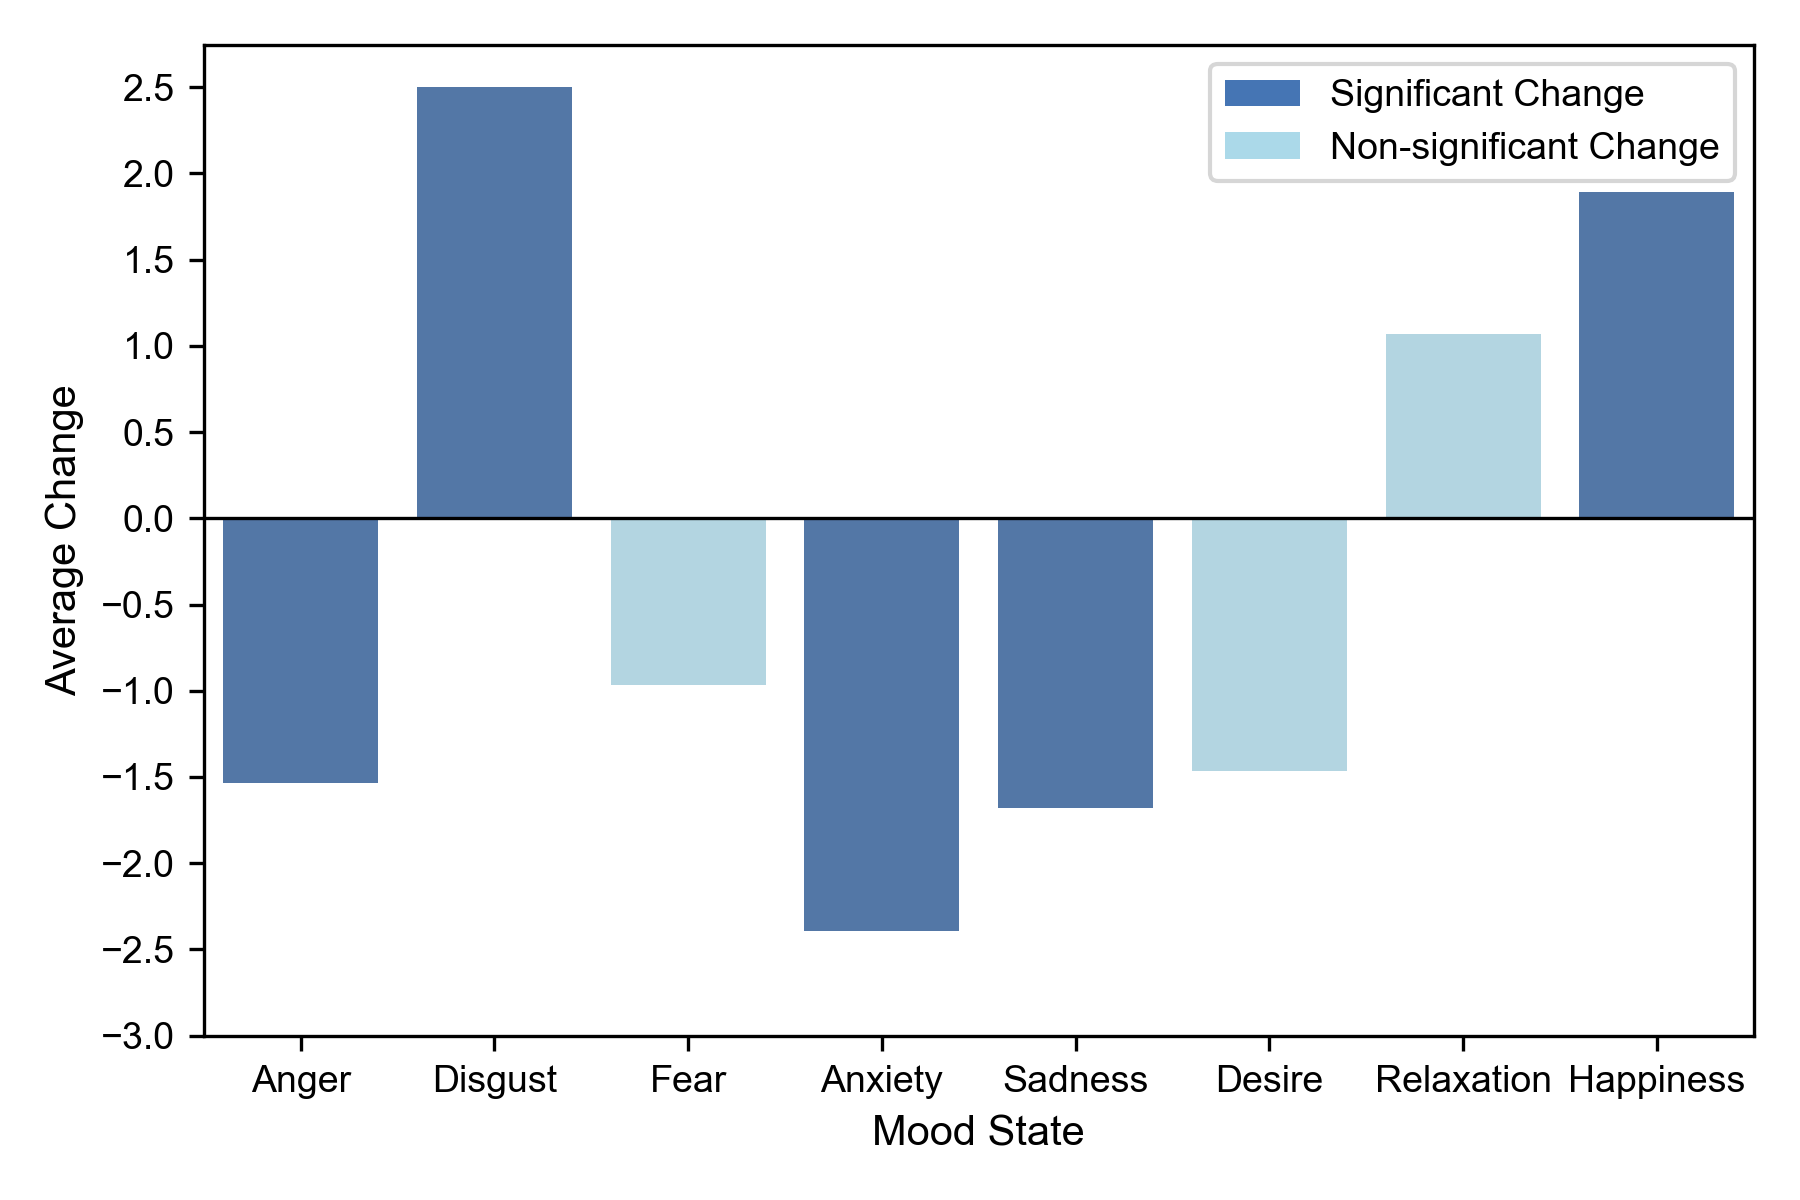
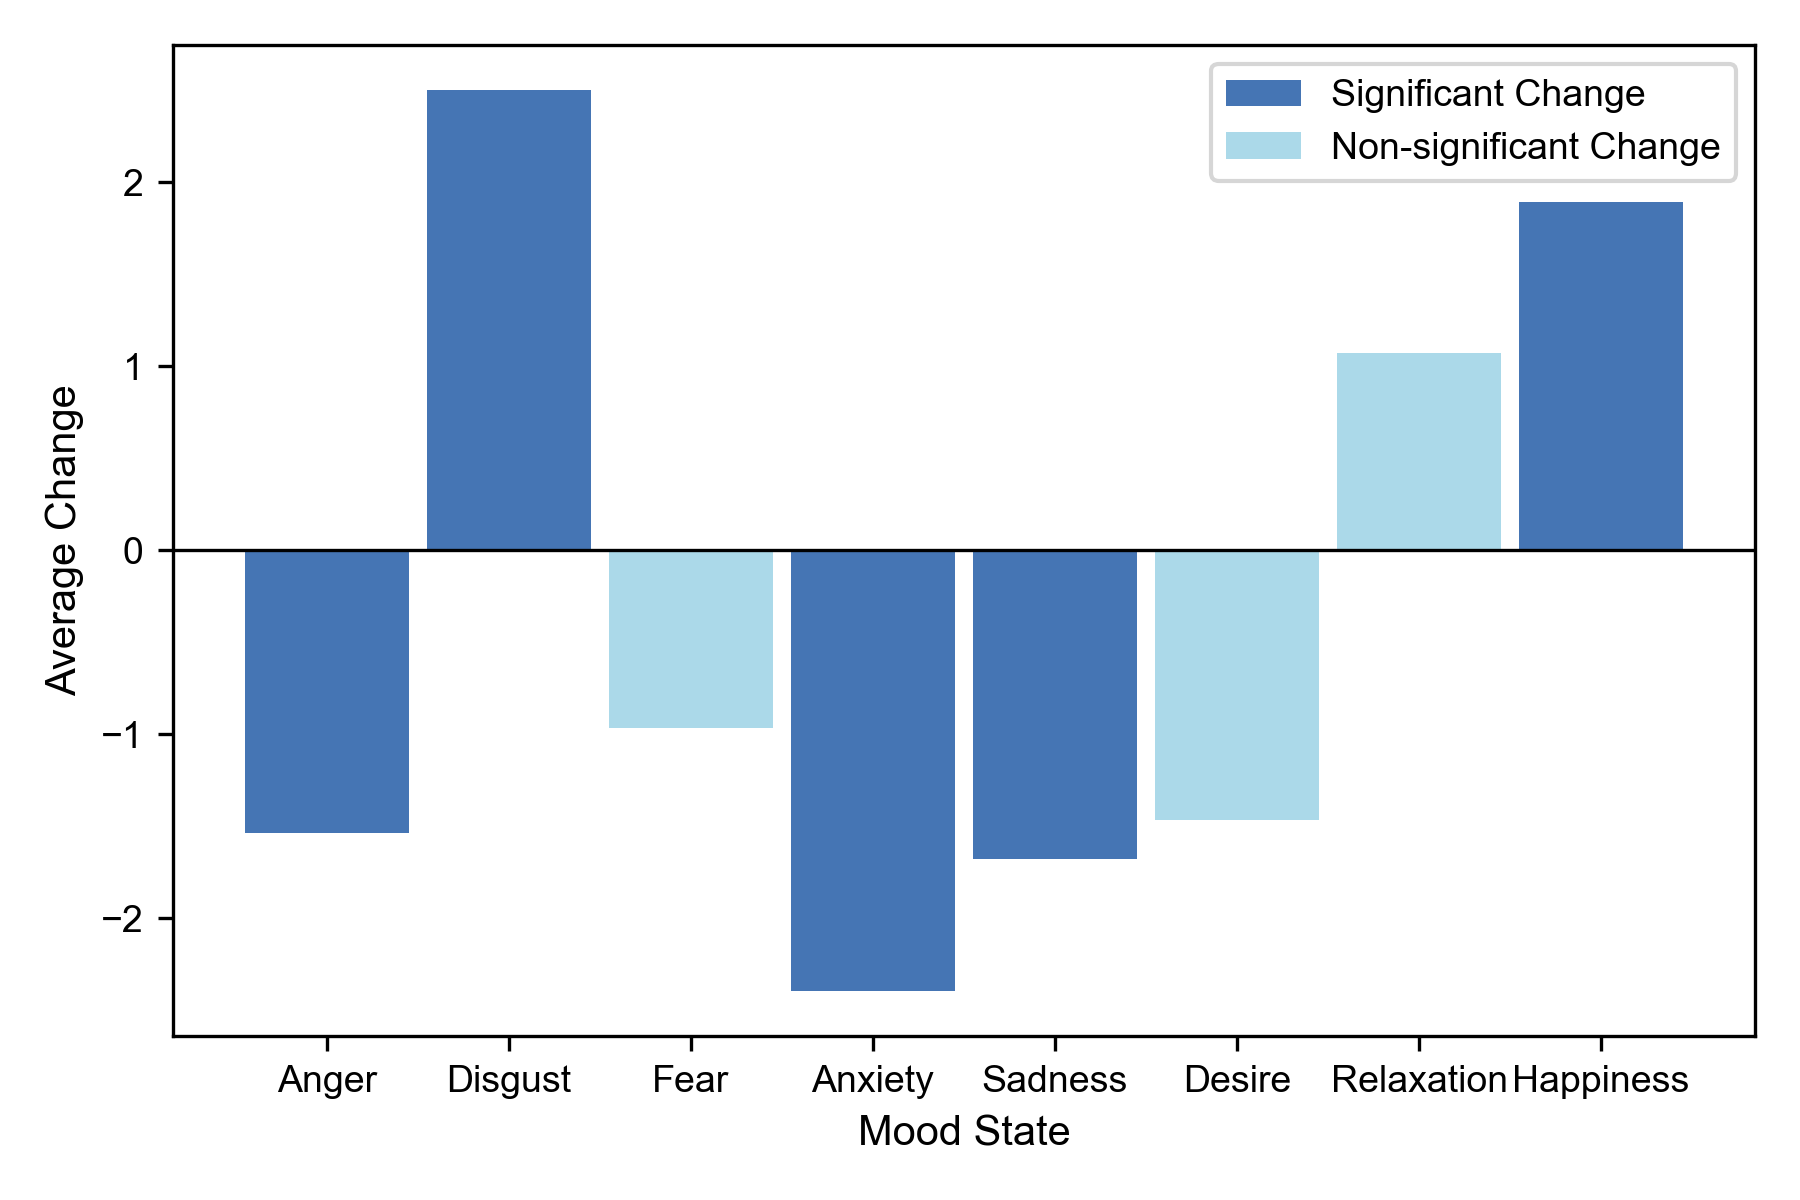
.

diff --git a/POMS/DEQ_ALL_mood_changes.py b/POMS/DEQ_ALL_mood_changes.py
@@ -1,6 +1,5 @@
 import pandas as pd
 import matplotlib.pyplot as plt
-import seaborn as sns
 import numpy as np
 import os
 
@@ -39,15 +38,20 @@ plt.rc('legend', fontsize=9)  # Fontsize of the legend
 plt.rc('font', family='sans-serif')  # Use a sans-serif font
 plt.rc('font', **{'sans-serif': 'Arial'})  # Specifically use Arial
 
+# Define colors
 colors = ['#abd9e9' if stats['p-value'] > 0.05 else '#4575b4' for stats in summary_stats.values()]
-bars = sns.barplot(x=list(summary_stats.keys()), y=[data[f'Change_{mood}'].mean() for mood in mood_states], palette=colors)
 
+# Define bar positions and heights
+bar_positions = np.arange(len(mood_states))
+bar_heights = [data[f'Change_{mood}'].mean() for mood in mood_states]
+
+bars = plt.bar(bar_positions, bar_heights, color=colors, width=0.9)
+
+# Customize plot
 plt.xlabel('Mood State')
 plt.ylabel('Average Change')
 plt.axhline(0, color='black', linewidth=0.8)
-
-plt.yticks(np.arange(-3.0, 3.0, 0.5))
-
+plt.xticks(bar_positions, mood_states)
 
 # Adding legend
 from matplotlib.patches import Patch
